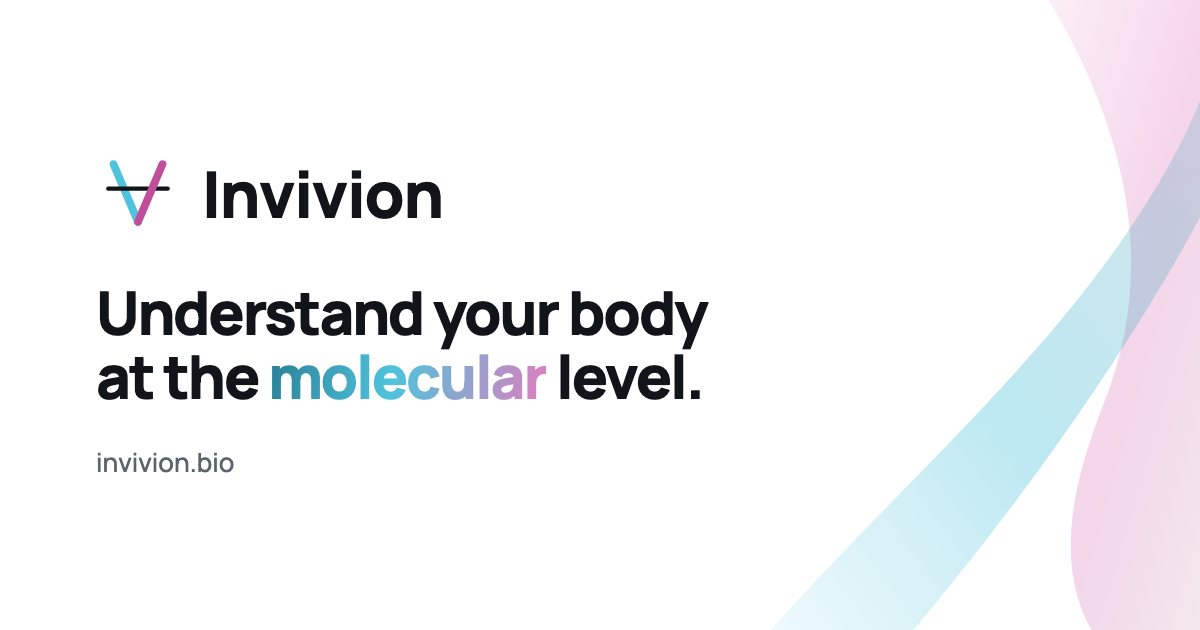
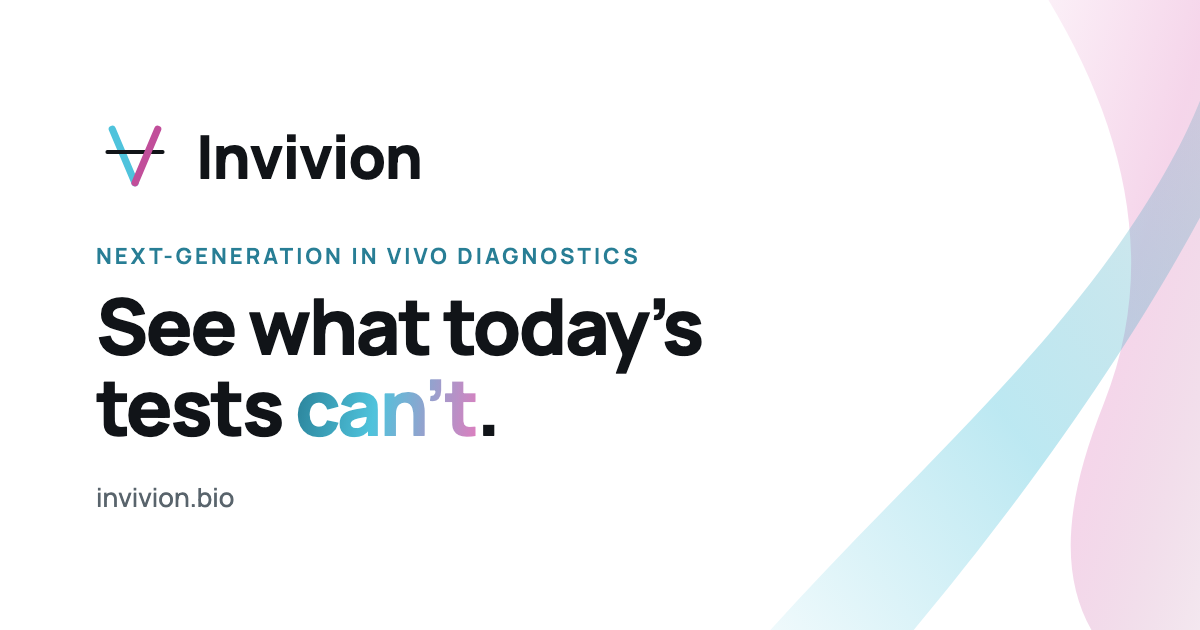
Reposition copy for clinical diagnostics; refresh social preview

diff --git a/design/og.html b/design/og.html
@@ -1,0 +1,44 @@
+<!doctype html>
+<!--
+  Source for site/og.png (1200x630 social preview). Re-render with:
+  "/Applications/Google Chrome.app/Contents/MacOS/Google Chrome" --headless=new --hide-scrollbars \
+    --force-device-scale-factor=1 --window-size=1200,630 --virtual-time-budget=8000 \
+    --screenshot=site/og.png "file://$PWD/design/og.html"
+-->
+<html><head><meta charset="utf-8">
+<link href="https://fonts.googleapis.com/css2?family=Manrope:wght@500;700;800&display=block" rel="stylesheet">
+<style>
+  html, body { margin:0; width:1200px; height:630px; overflow:hidden; background:#fff; }
+  body { font-family: Manrope, Arial, sans-serif; color:#111418; position:relative; }
+  .ribbons { position:absolute; right:0; top:0; width:640px; height:630px; }
+  .content { position:absolute; left:96px; top:0; bottom:0; display:flex; flex-direction:column; justify-content:center; width:820px; }
+  .brand { display:flex; align-items:center; gap:22px; font-weight:800; font-size:60px; letter-spacing:-.02em; }
+  .brand svg { width:78px; height:78px; }
+  .eyebrow { margin-top:44px; font-size:22px; font-weight:700; letter-spacing:.14em; text-transform:uppercase; color:#287E95; }
+  h1 { margin:14px 0 0; font-size:78px; line-height:1.04; letter-spacing:-.035em; font-weight:800; }
+  em { font-style:normal; background:linear-gradient(100deg,#287E95 0%,#4FC3DC 45%,#E07DBE 100%); -webkit-background-clip:text; background-clip:text; color:transparent; }
+  .url { margin-top:32px; font-size:26px; font-weight:500; color:#59646C; }
+</style></head>
+<body>
+  <svg class="ribbons" viewBox="0 0 800 900" preserveAspectRatio="xMaxYMid slice">
+    <defs>
+      <linearGradient id="gc" x1="0" y1="1" x2="1" y2="0"><stop offset="0" stop-color="#4FC3DC" stop-opacity="0"/><stop offset=".45" stop-color="#4FC3DC" stop-opacity=".38"/><stop offset="1" stop-color="#287E95" stop-opacity=".12"/></linearGradient>
+      <linearGradient id="gp" x1="0" y1="0" x2="1" y2="1"><stop offset="0" stop-color="#E07DBE" stop-opacity=".05"/><stop offset=".5" stop-color="#E07DBE" stop-opacity=".32"/><stop offset="1" stop-color="#9C477E" stop-opacity=".08"/></linearGradient>
+    </defs>
+    <path d="M560 -20 C 690 160, 760 360, 680 560 S 640 860, 760 940 L 840 940 L 840 -20 Z" fill="url(#gp)"/>
+    <path d="M180 940 C 360 720, 560 560, 700 360 S 820 80, 860 -20 L 900 -20 L 900 120 C 800 360, 640 620, 360 940 Z" fill="url(#gc)"/>
+  </svg>
+  <div class="content">
+    <div class="brand">
+      <svg viewBox="0 0 48 48">
+        <line x1="10" y1="7.5" x2="24" y2="40.5" stroke="#4FC3DC" stroke-width="4.4" stroke-linecap="round"/>
+        <line x1="7" y1="21.5" x2="41" y2="21.5" stroke="#111418" stroke-width="2.4" stroke-linecap="round"/>
+        <line x1="38" y1="7.5" x2="24" y2="40.5" stroke="#C14E9A" stroke-width="4.4" stroke-linecap="round"/>
+      </svg>
+      Invivion
+    </div>
+    <div class="eyebrow">Next-generation in vivo diagnostics</div>
+    <h1>See what today’s<br>tests <em>can’t</em>.</h1>
+    <div class="url">invivion.bio</div>
+  </div>
+</body></html>

diff --git a/site/index.html b/site/index.html
@@ -3,14 +3,14 @@
 <head>
   <meta charset="utf-8">
   <meta name="viewport" content="width=device-width, initial-scale=1">
-  <title>Invivion — Molecular intelligence for everyday life</title>
-  <meta name="description" content="Invivion is building a new category of health monitoring: understand your body at the molecular level.">
+  <title>Invivion — Next-generation in vivo diagnostics</title>
+  <meta name="description" content="Invivion is building next-generation in vivo diagnostics that read the signals inside living tissue. Precision medicine for all.">
   <link rel="canonical" href="https://invivion.bio/">
   <meta name="theme-color" content="#ffffff">
   <meta property="og:type" content="website">
   <meta property="og:url" content="https://invivion.bio/">
   <meta property="og:title" content="Invivion">
-  <meta property="og:description" content="Molecular intelligence for everyday life.">
+  <meta property="og:description" content="Next-generation in vivo diagnostics. See what today’s tests can’t.">
   <meta property="og:image" content="https://invivion.bio/og.png">
   <meta property="og:image:width" content="1200">
   <meta property="og:image:height" content="630">
@@ -67,9 +67,9 @@
 
   <main>
     <section class="hero">
-      <p class="eyebrow">Molecular intelligence for everyday life</p>
-      <h1>Understand your body<br class="h1-break"> at the <em>molecular</em> level.</h1>
-      <p class="lede">We’re building a new category of health monitoring, so everyday decisions no longer have to be made blind.</p>
+      <p class="eyebrow">Next-generation in vivo diagnostics</p>
+      <h1>See what today’s<br class="h1-break"> tests <em>can’t</em>.</h1>
+      <p class="lede">The signals that matter most for treatment happen inside living tissue, out of reach of today’s tests. We’re building a way to read them directly.</p>
 
       <form class="subscribe" data-endpoint="/subscribe" novalidate>
         <label class="sr-only" for="sub-email">Email address</label>
@@ -85,7 +85,7 @@
 
     <section class="mission">
       <p class="mission__label">Our mission</p>
-      <p class="mission__text">Give people control over their own health.</p>
+      <p class="mission__text">Precision medicine for&nbsp;all.</p>
     </section>
 
     <section class="contact" id="contact">
